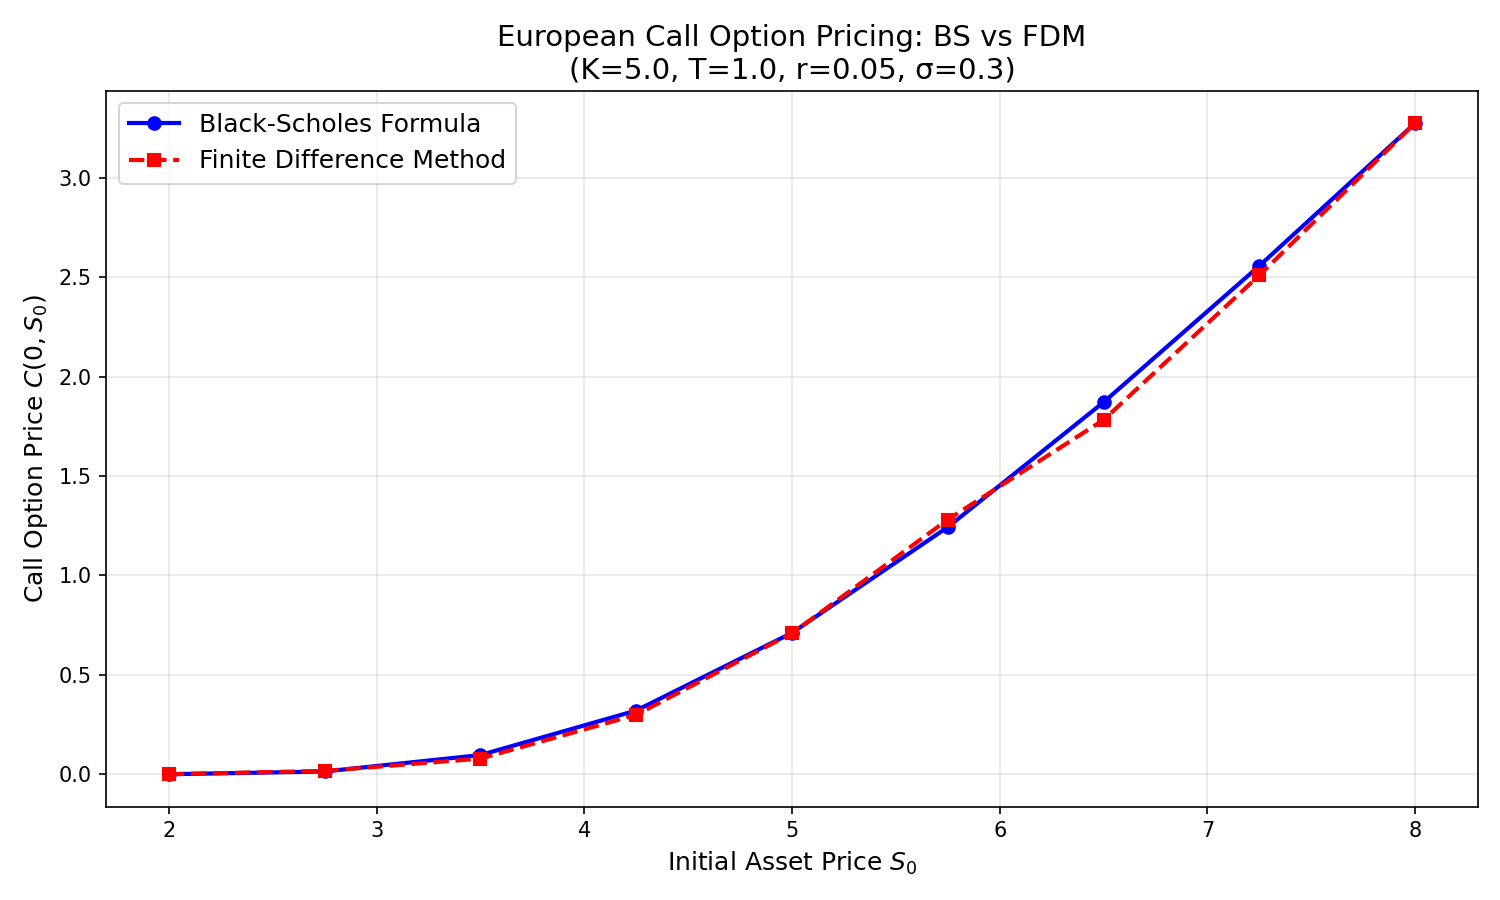
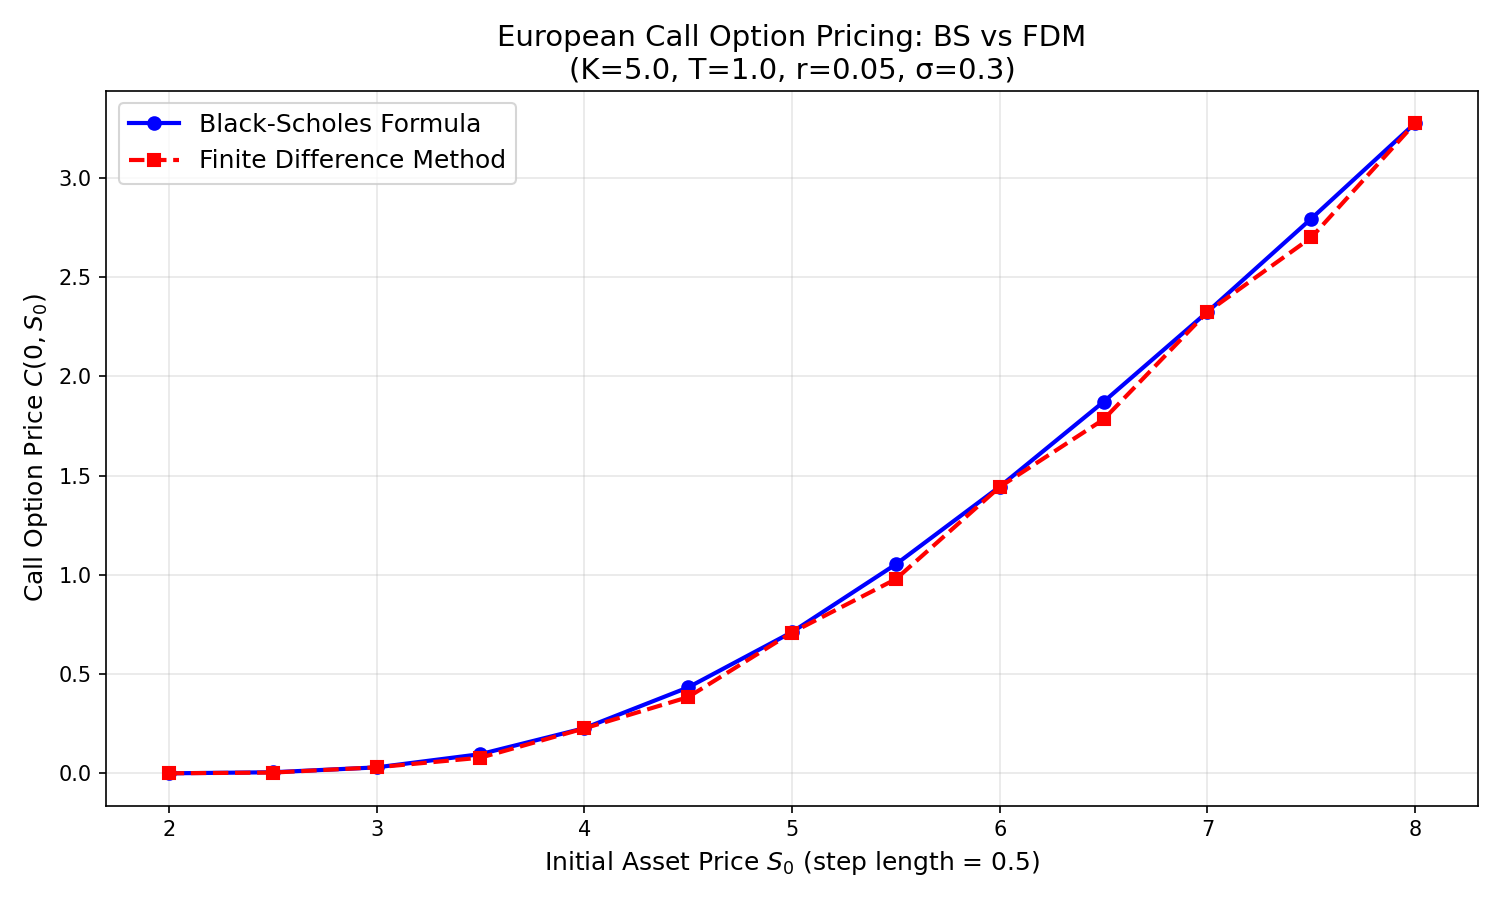
BS

diff --git a/BS.py b/BS.py
@@ -80,7 +80,7 @@ def main():
     Nt = 100
 
     #let step length be 0.5, FDM will give the same result as BS as step length -> 0
-    S0_values = np.linspace(2.0, 8.0, 9)
+    S0_values = np.linspace(2.0, 8.0, 13)
     
     results = []
     errors = []
@@ -120,7 +120,7 @@ def main():
     df = pd.DataFrame(results)
     plt.plot(df['S0'], df['BS Price'], 'b-o', linewidth=2, label='Black-Scholes Formula')
     plt.plot(df['S0'], df['FD Price'], 'r--s', linewidth=2, label='Finite Difference Method')
-    plt.xlabel('Initial Asset Price $S_0$', fontsize=12)
+    plt.xlabel('Initial Asset Price $S_0$ (step length = 0.5)', fontsize=12)
     plt.ylabel('Call Option Price $C(0, S_0)$', fontsize=12)
     plt.title(f'European Call Option Pricing: BS vs FDM\n(K={K}, T={T}, r={r}, σ={sigma})', fontsize=14)
     plt.legend(fontsize=12)
